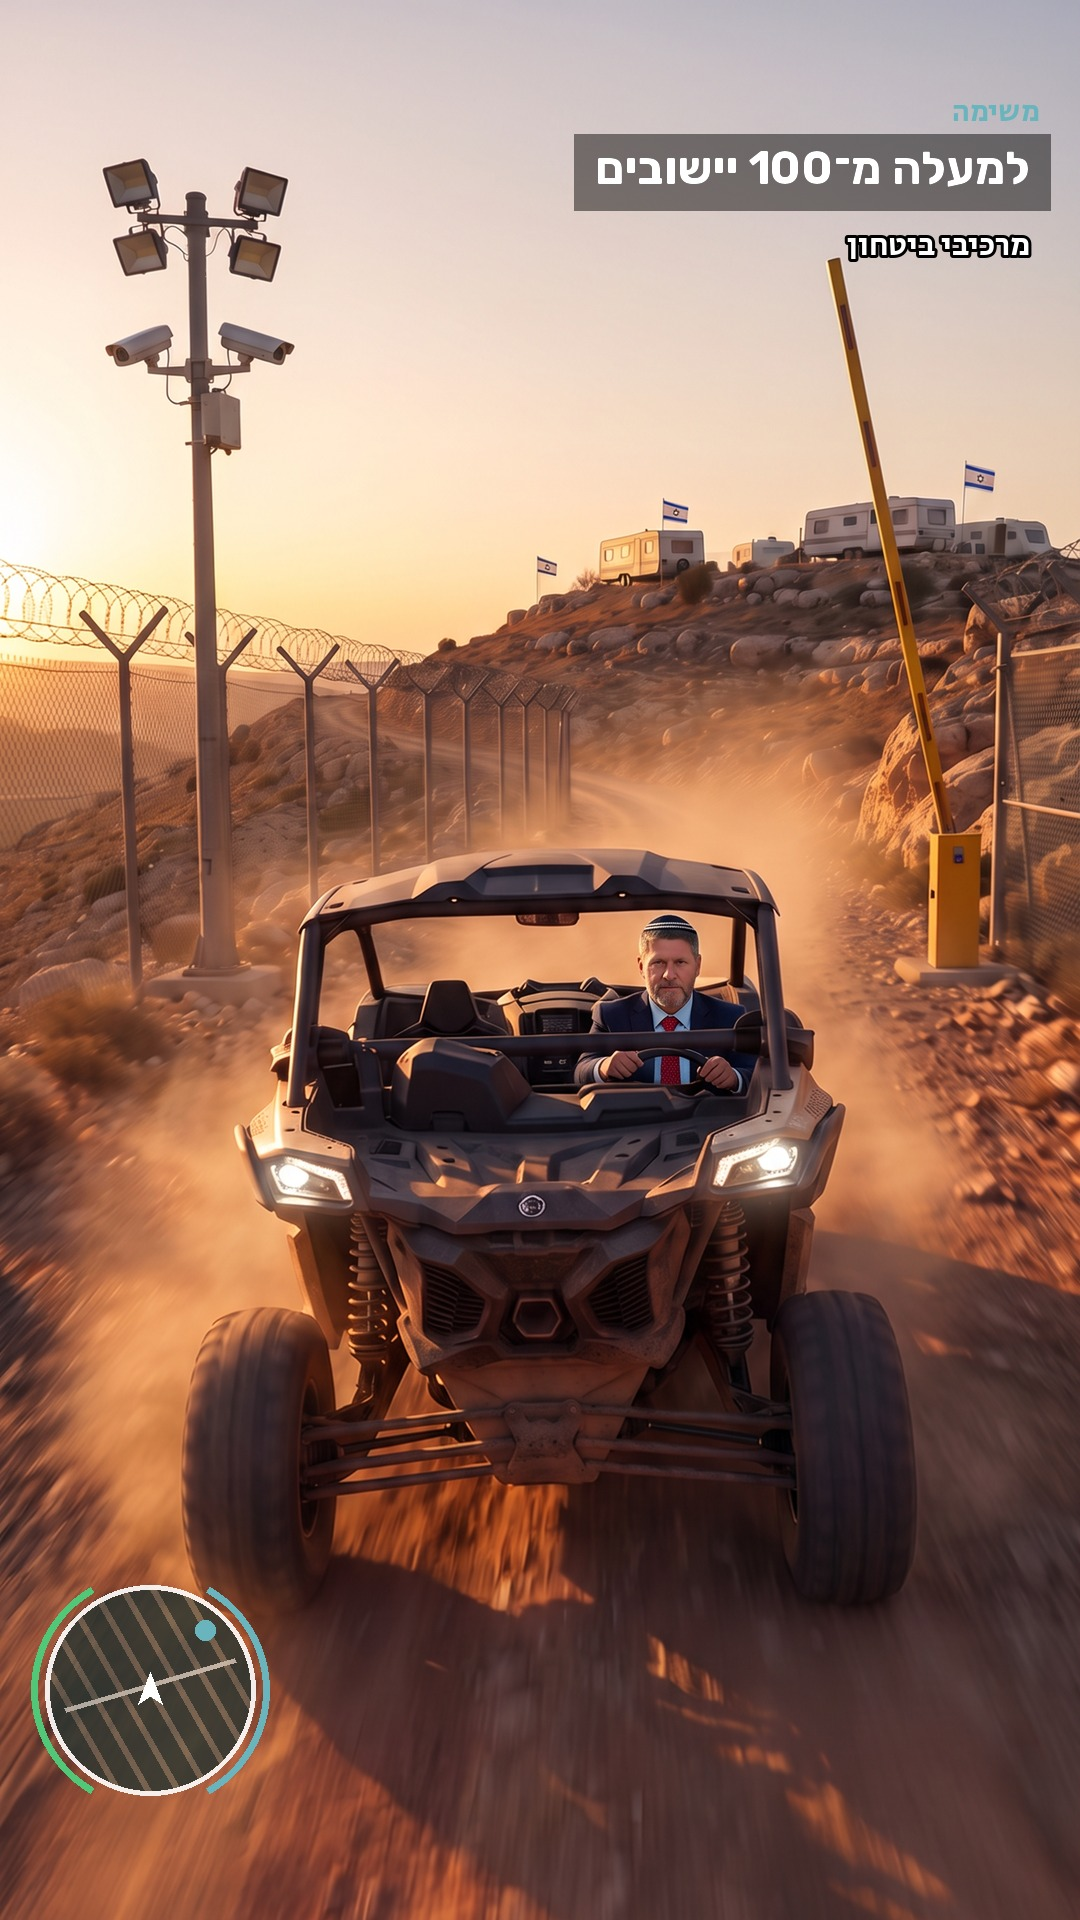
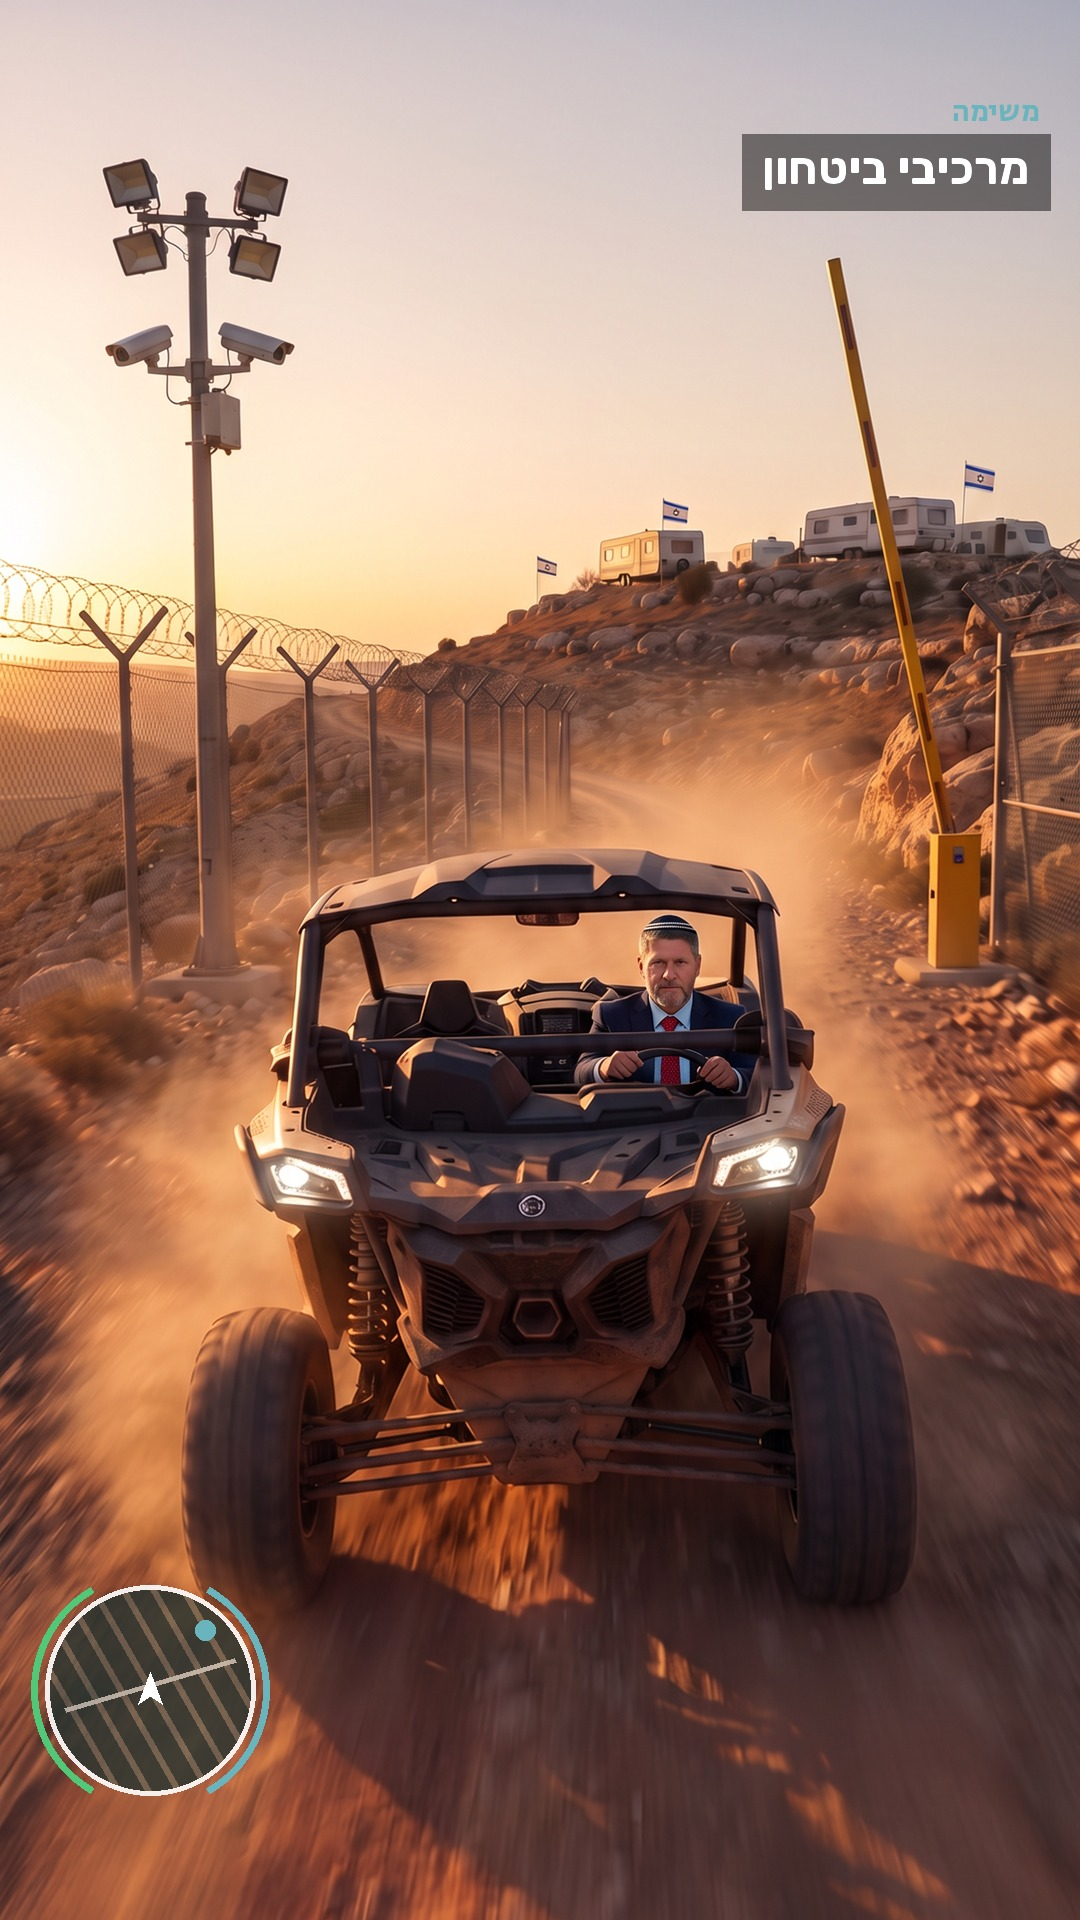
RZ game reel: razor mission title security elements
Claude-Session: https://claude.ai/code/session_01RS3QK6pAd3YhyAuXZSJjH1

Changed region(s): [[0.5194, 0.0625, 0.9472, 0.1562]]

diff --git a/content-kit/hatzionut-hadatit/2026-11-reel-game-team/hud.py b/content-kit/hatzionut-hadatit/2026-11-reel-game-team/hud.py
@@ -36,7 +36,7 @@ def hud(src, out, mission, sub=None, done=False):
 if __name__ == '__main__':
     G = HERE + '/gen/'
     S = [('c-scene1.png', 'כלכלה חזקה במלחמה בשבע חזיתות', None, False),
-         ('c-scene2.png', 'למעלה מ־\u2066100\u2069 יישובים', 'מרכיבי ביטחון', False),
+         ('c-scene2.png', 'מרכיבי ביטחון', None, False),
          ('c-scene3.png', 'למעלה מ־\u2066100\u2069 יישובים', 'הניחו את הקרוואן', False),
          ('c-scene4.png', 'למעלה מ־\u2066140\u2069 חוות', None, False)]
     outs = []
